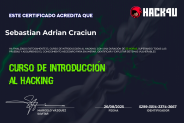
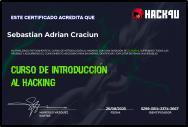
Modificacion pantalla de logros

diff --git a/_tabs/achievements.md b/_tabs/achievements.md
@@ -31,46 +31,122 @@ order: 4
 ![Desktop View](certEJPT.webp){: width="972" height="589" .w-50 .right}
 
 
-Quisque egestas convallis ipsum, ut sollicitudin risus tincidunt a. Maecenas interdum malesuada egestas. Duis consectetur porta risus, sit amet vulputate urna facilisis ac. Phasellus semper dui non purus ultrices sodales. Aliquam ante lorem, ornare a feugiat ac, finibus nec mauris. Vivamus ut tristique nisi. Sed vel leo vulputate, efficitur risus non, posuere mi. Nullam tincidunt bibendum rutrum. Proin commodo ornare sapien. Vivamus interdum diam sed sapien blandit, sit amet aliquam risus mattis. Nullam arcu turpis, mollis quis laoreet at, placerat id nibh. Suspendisse venenatis eros eros.
+- __Fecha de obtención__: 07/04/2025
+- __Ver certificación__: [INE Security](https://certs.ine.com/86bc4b19-db46-40fd-a2ff-876f6f36d510#acc.9MP2Dw1L){:target="_blank"}
+- __ID de la credencial__: 139370218
+- __Conocimientos certificados__: 
+  - Fundamentos de redes y protocolos TCP/IP, UDP, HTTP, DNS, SMTP.
+  - Uso de herramientas básicas de pentesting (Nmap, Netcat, Wireshark, etc.).
+  - Reconocimiento y enumeración de hosts y servicios.
+  - Escaneo de vulnerabilidades simples y análisis de resultados.
+  - Conceptos básicos de explotación de vulnerabilidades.
+  - Manejo de exploits simples y técnicas de post-explotación.
+  - Conceptos de scripting para automatización (Bash / Python).
+  - Conceptos básicos de seguridad web: XSS, SQLi, CSRF, file inclusion.
+  - Reporting de hallazgos de manera profesional.
 
 ### __INE Certified Cloud Associate__ _(INE Security)_
 
-![Desktop View](certICCA.webp){: width="972" height="589" .w-50 .left}
+![Desktop View](certICCA.webp){: width="972" height="589" .w-50 .right}
 
 
-Quisque egestas convallis ipsum, ut sollicitudin risus tincidunt a. Maecenas interdum malesuada egestas. Duis consectetur porta risus, sit amet vulputate urna facilisis ac. Phasellus semper dui non purus ultrices sodales. Aliquam ante lorem, ornare a feugiat ac, finibus nec mauris. Vivamus ut tristique nisi. Sed vel leo vulputate, efficitur risus non, posuere mi. Nullam tincidunt bibendum rutrum. Proin commodo ornare sapien. Vivamus interdum diam sed sapien blandit, sit amet aliquam risus mattis. Nullam arcu turpis, mollis quis laoreet at, placerat id nibh. Suspendisse venenatis eros eros.
+- __Fecha de obtención__: 07/05/2025
+- __Ver certificación__: [INE Security](https://certs.ine.com/9dc9064a-8d51-4299-a678-42512638b4b9#acc.6osc8FmW){:target="_blank"}
+- __ID de la credencial__: 142412300
+- __Conocimientos certificados__: 
+  - Fundamentos de ciberseguridad y marco legal/regulatorio.
+  - Conceptos de CIA triad, seguridad de endpoints y redes.
+  - Monitoreo de eventos de seguridad y análisis de logs.
+  - Gestión de alertas y detección de incidentes de seguridad.
+  - Análisis de malware y técnicas básicas de respuesta a incidentes.
+  - Uso de herramientas SIEM y soluciones de monitoreo (Splunk, ELK, etc.).
+  - Evaluación de vulnerabilidades y reporting de incidentes.
+  - Conceptos de seguridad en sistemas Windows, Linux y redes corporativas.
 
 ### __Curso de Introducción al Hacking__ _(Hack4U)_
 
 ![Desktop View](hack4uIntroduccionAlHacking.webp){: width="972" height="589" .w-50 .right}
 
 
-Quisque egestas convallis ipsum, ut sollicitudin risus tincidunt a. Maecenas interdum malesuada egestas. Duis consectetur porta risus, sit amet vulputate urna facilisis ac. Phasellus semper dui non purus ultrices sodales. Aliquam ante lorem, ornare a feugiat ac, finibus nec mauris. Vivamus ut tristique nisi. Sed vel leo vulputate, efficitur risus non, posuere mi. Nullam tincidunt bibendum rutrum. Proin commodo ornare sapien. Vivamus interdum diam sed sapien blandit, sit amet aliquam risus mattis. Nullam arcu turpis, mollis quis laoreet at, placerat id nibh. Suspendisse venenatis eros eros.
+- __Fecha de obtención__: 26/08/2025
+- __Ver certificación__: [Hack4U](https://hack4u.io/check-certificate/){:target="_blank"}
+- __ID de la credencial__: 5299-3014-3374-3667
+- __Conocimientos certificados__: 
+  - Fundamentos de ciberseguridad y hacking ético.
+  - Evaluación de vulnerabilidades en sistemas.
+  - Escaneo y análisis de redes y servicios.
+  - Uso básico de herramientas de pentesting como Nmap y Netcat.
+  - Introducción a la explotación de vulnerabilidades.
+  - Conceptos de post-explotación y escalada de privilegios.
+  - Reporte de hallazgos de manera profesional.
 
 ### __Curso de Python Ofensivo__ _(Hack4U)_
 
-![Desktop View](hack4uPythonOfensivo.webp){: width="972" height="589" .w-50 .left}
+![Desktop View](hack4uPythonOfensivo.webp){: width="972" height="589" .w-50 .right}
 
 
-Quisque egestas convallis ipsum, ut sollicitudin risus tincidunt a. Maecenas interdum malesuada egestas. Duis consectetur porta risus, sit amet vulputate urna facilisis ac. Phasellus semper dui non purus ultrices sodales. Aliquam ante lorem, ornare a feugiat ac, finibus nec mauris. Vivamus ut tristique nisi. Sed vel leo vulputate, efficitur risus non, posuere mi. Nullam tincidunt bibendum rutrum. Proin commodo ornare sapien. Vivamus interdum diam sed sapien blandit, sit amet aliquam risus mattis. Nullam arcu turpis, mollis quis laoreet at, placerat id nibh. Suspendisse venenatis eros eros.
+- __Fecha de obtención__: 03/09/2025
+- __Ver certificación__: [INE Security](https://hack4u.io/check-certificate/){:target="_blank"}
+- __ID de la credencial__: 1324-9096-5305-2883
+- __Conocimientos certificados__: 
+  - Programación en Python aplicada a pentesting: sintaxis, funciones, módulos y buenas prácticas.
+  - Automatización de tareas ofensivas: parsing de datos, ejecución de scripts y workflows de pruebas.
+  - Networking con Python: sockets TCP/UDP, interacción con servicios y APIs.
+  - Desarrollo de herramientas de hacking: scanners, fuzzers y payload generators.
+  - Hacking web automatizado: explotación básica de vulnerabilidades y manipulación de parámetros.
+  - Post-explotación y reporting: recolección de información y generación de reportes en entornos de prueba.
 
 ### __Curso de Hacking Web__ _(Hack4U)_
 
 ![Desktop View](hack4uHackingWeb.webp){: width="972" height="589" .w-50 .right}
 
 
-Quisque egestas convallis ipsum, ut sollicitudin risus tincidunt a. Maecenas interdum malesuada egestas. Duis consectetur porta risus, sit amet vulputate urna facilisis ac. Phasellus semper dui non purus ultrices sodales. Aliquam ante lorem, ornare a feugiat ac, finibus nec mauris. Vivamus ut tristique nisi. Sed vel leo vulputate, efficitur risus non, posuere mi. Nullam tincidunt bibendum rutrum. Proin commodo ornare sapien. Vivamus interdum diam sed sapien blandit, sit amet aliquam risus mattis. Nullam arcu turpis, mollis quis laoreet at, placerat id nibh. Suspendisse venenatis eros eros.
+- __Fecha de obtención__: 16/09/2025
+- __Ver certificación__: [INE Security](https://hack4u.io/check-certificate/){:target="_blank"}
+- __ID de la credencial__: 2886-8730-2883-6290
+- __Conocimientos certificados__: 
+  - Dominio del hacking web con 51 horas de práctica real.
+  - 269 laboratorios prácticos y más de 30 vulnerabilidades modernas.
+  - Preparación para certificaciones como eWPT, eWPTX y BSCP.
+  - Explotación de vulnerabilidades web comunes y avanzadas.
+  - Técnicas de bypass de WAFs y mecanismos de protección.
+  - Análisis y explotación de APIs REST y SOAP.
+  - Desarrollo de scripts para automatizar ataques.
+  - Reporte detallado de vulnerabilidades y riesgos asociados.
 
 ### __eLearnSecurity Certified Professional Penetration Tester__ _(INE Security)_
 
-![Desktop View](certECPPT.webp){: width="972" height="589" .w-50 .left}
+![Desktop View](certECPPT.webp){: width="972" height="589" .w-50 .right}
 
 
-Quisque egestas convallis ipsum, ut sollicitudin risus tincidunt a. Maecenas interdum malesuada egestas. Duis consectetur porta risus, sit amet vulputate urna facilisis ac. Phasellus semper dui non purus ultrices sodales. Aliquam ante lorem, ornare a feugiat ac, finibus nec mauris. Vivamus ut tristique nisi. Sed vel leo vulputate, efficitur risus non, posuere mi. Nullam tincidunt bibendum rutrum. Proin commodo ornare sapien. Vivamus interdum diam sed sapien blandit, sit amet aliquam risus mattis. Nullam arcu turpis, mollis quis laoreet at, placerat id nibh. Suspendisse venenatis eros eros.
+- __Fecha de obtención__: 26/09/2025
+- __Ver certificación__: [INE Security](https://certs.ine.com/47b69c2e-f1c9-47ec-add6-16cad23f68e7){:target="_blank"}
+- __ID de la credencial__: 161828803
+- __Conocimientos certificados__: 
+  - Reconocimiento avanzado y enumeración de redes y servicios.
+  - Escaneo y explotación de vulnerabilidades en sistemas Windows y Linux.
+  - Técnicas de explotación web avanzadas: SQLi, XSS, RCE, LFI/RFI, SSRF.
+  - Explotación de Active Directory y gestión de credenciales (Kerberos, NTLM, LDAP).
+  - Privilege escalation local y remoto en sistemas comprometidos.
+  - Pivoting y movimiento lateral en entornos internos.
+  - Desarrollo y uso de scripts y exploits personalizados.
+  - Pentesting de aplicaciones web con metodologías OWASP.
+  - Reporting detallado y profesional, incluyendo riesgos y recomendaciones.
 
 ### __eLearnSecurity Web Application Penetration Tester eXtreme__ _(INE Security)_
 
 ![Desktop View](certiEWPTX.webp){: width="972" height="589" .w-50 .right}
 
 
-Quisque egestas convallis ipsum, ut sollicitudin risus tincidunt a. Maecenas interdum malesuada egestas. Duis consectetur porta risus, sit amet vulputate urna facilisis ac. Phasellus semper dui non purus ultrices sodales. Aliquam ante lorem, ornare a feugiat ac, finibus nec mauris. Vivamus ut tristique nisi. Sed vel leo vulputate, efficitur risus non, posuere mi. Nullam tincidunt bibendum rutrum. Proin commodo ornare sapien. Vivamus interdum diam sed sapien blandit, sit amet aliquam risus mattis. Nullam arcu turpis, mollis quis laoreet at, placerat id nibh. Suspendisse venenatis eros eros.
+- __Fecha de obtención__: 15/10/2025
+- __Ver certificación__: [INE Security](https://certs.ine.com/f07e17dd-c390-4f40-964a-67799de9d5ed){:target="_blank"}
+- __ID de la credencial__: 163392424
+- __Conocimientos certificados__: 
+  - Explotación avanzada de vulnerabilidades web (SQLi, Blind SQLi, XSS, RCE, SSRF, IDOR, XXE, CSRF).
+  - Bypasses de WAFs y mecanismos de protección web.
+  - Técnicas de fuzzing y explotación automatizada.
+  - Análisis y manipulación de API REST y SOAP.
+  - Seguridad en aplicaciones modernas: Single Page Applications, JWT, OAuth, SSO.
+  - Post-explotación y extracción de información sensible desde aplicaciones.
+  - Desarrollo de scripts para automatizar ataques complejos.
+  - Reporting avanzado con evaluación de riesgo y recomendaciones técnicas.
